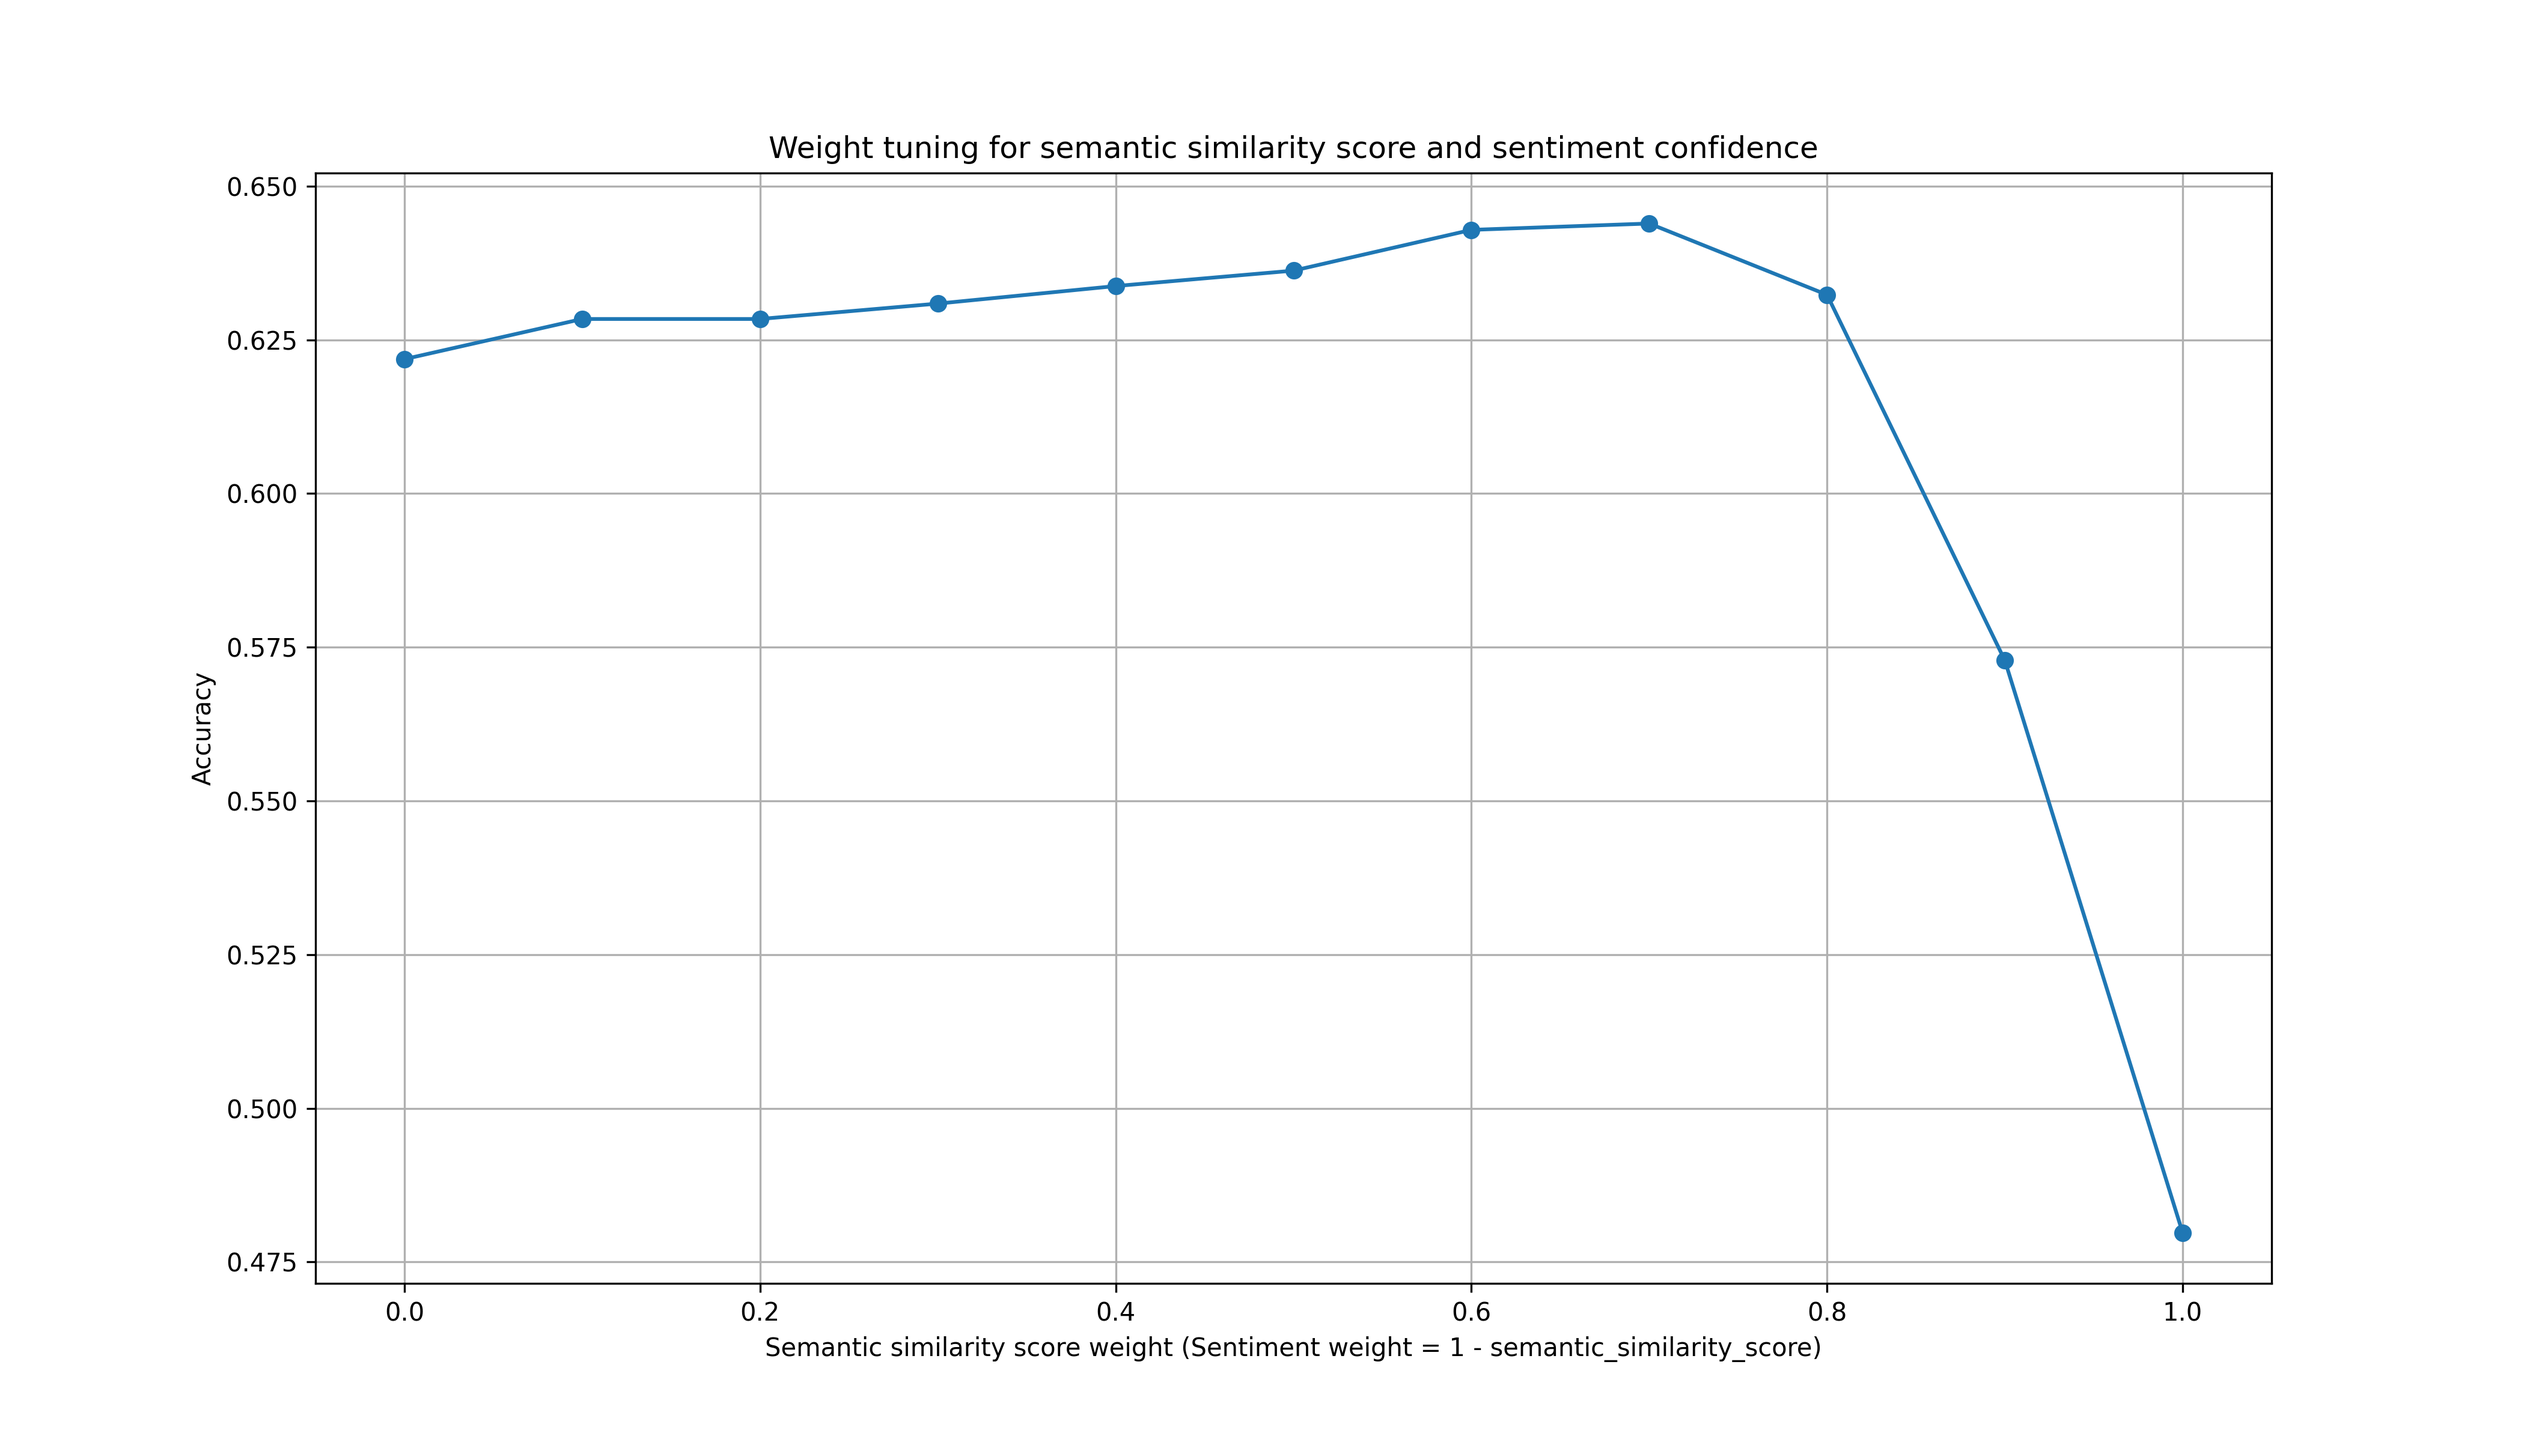
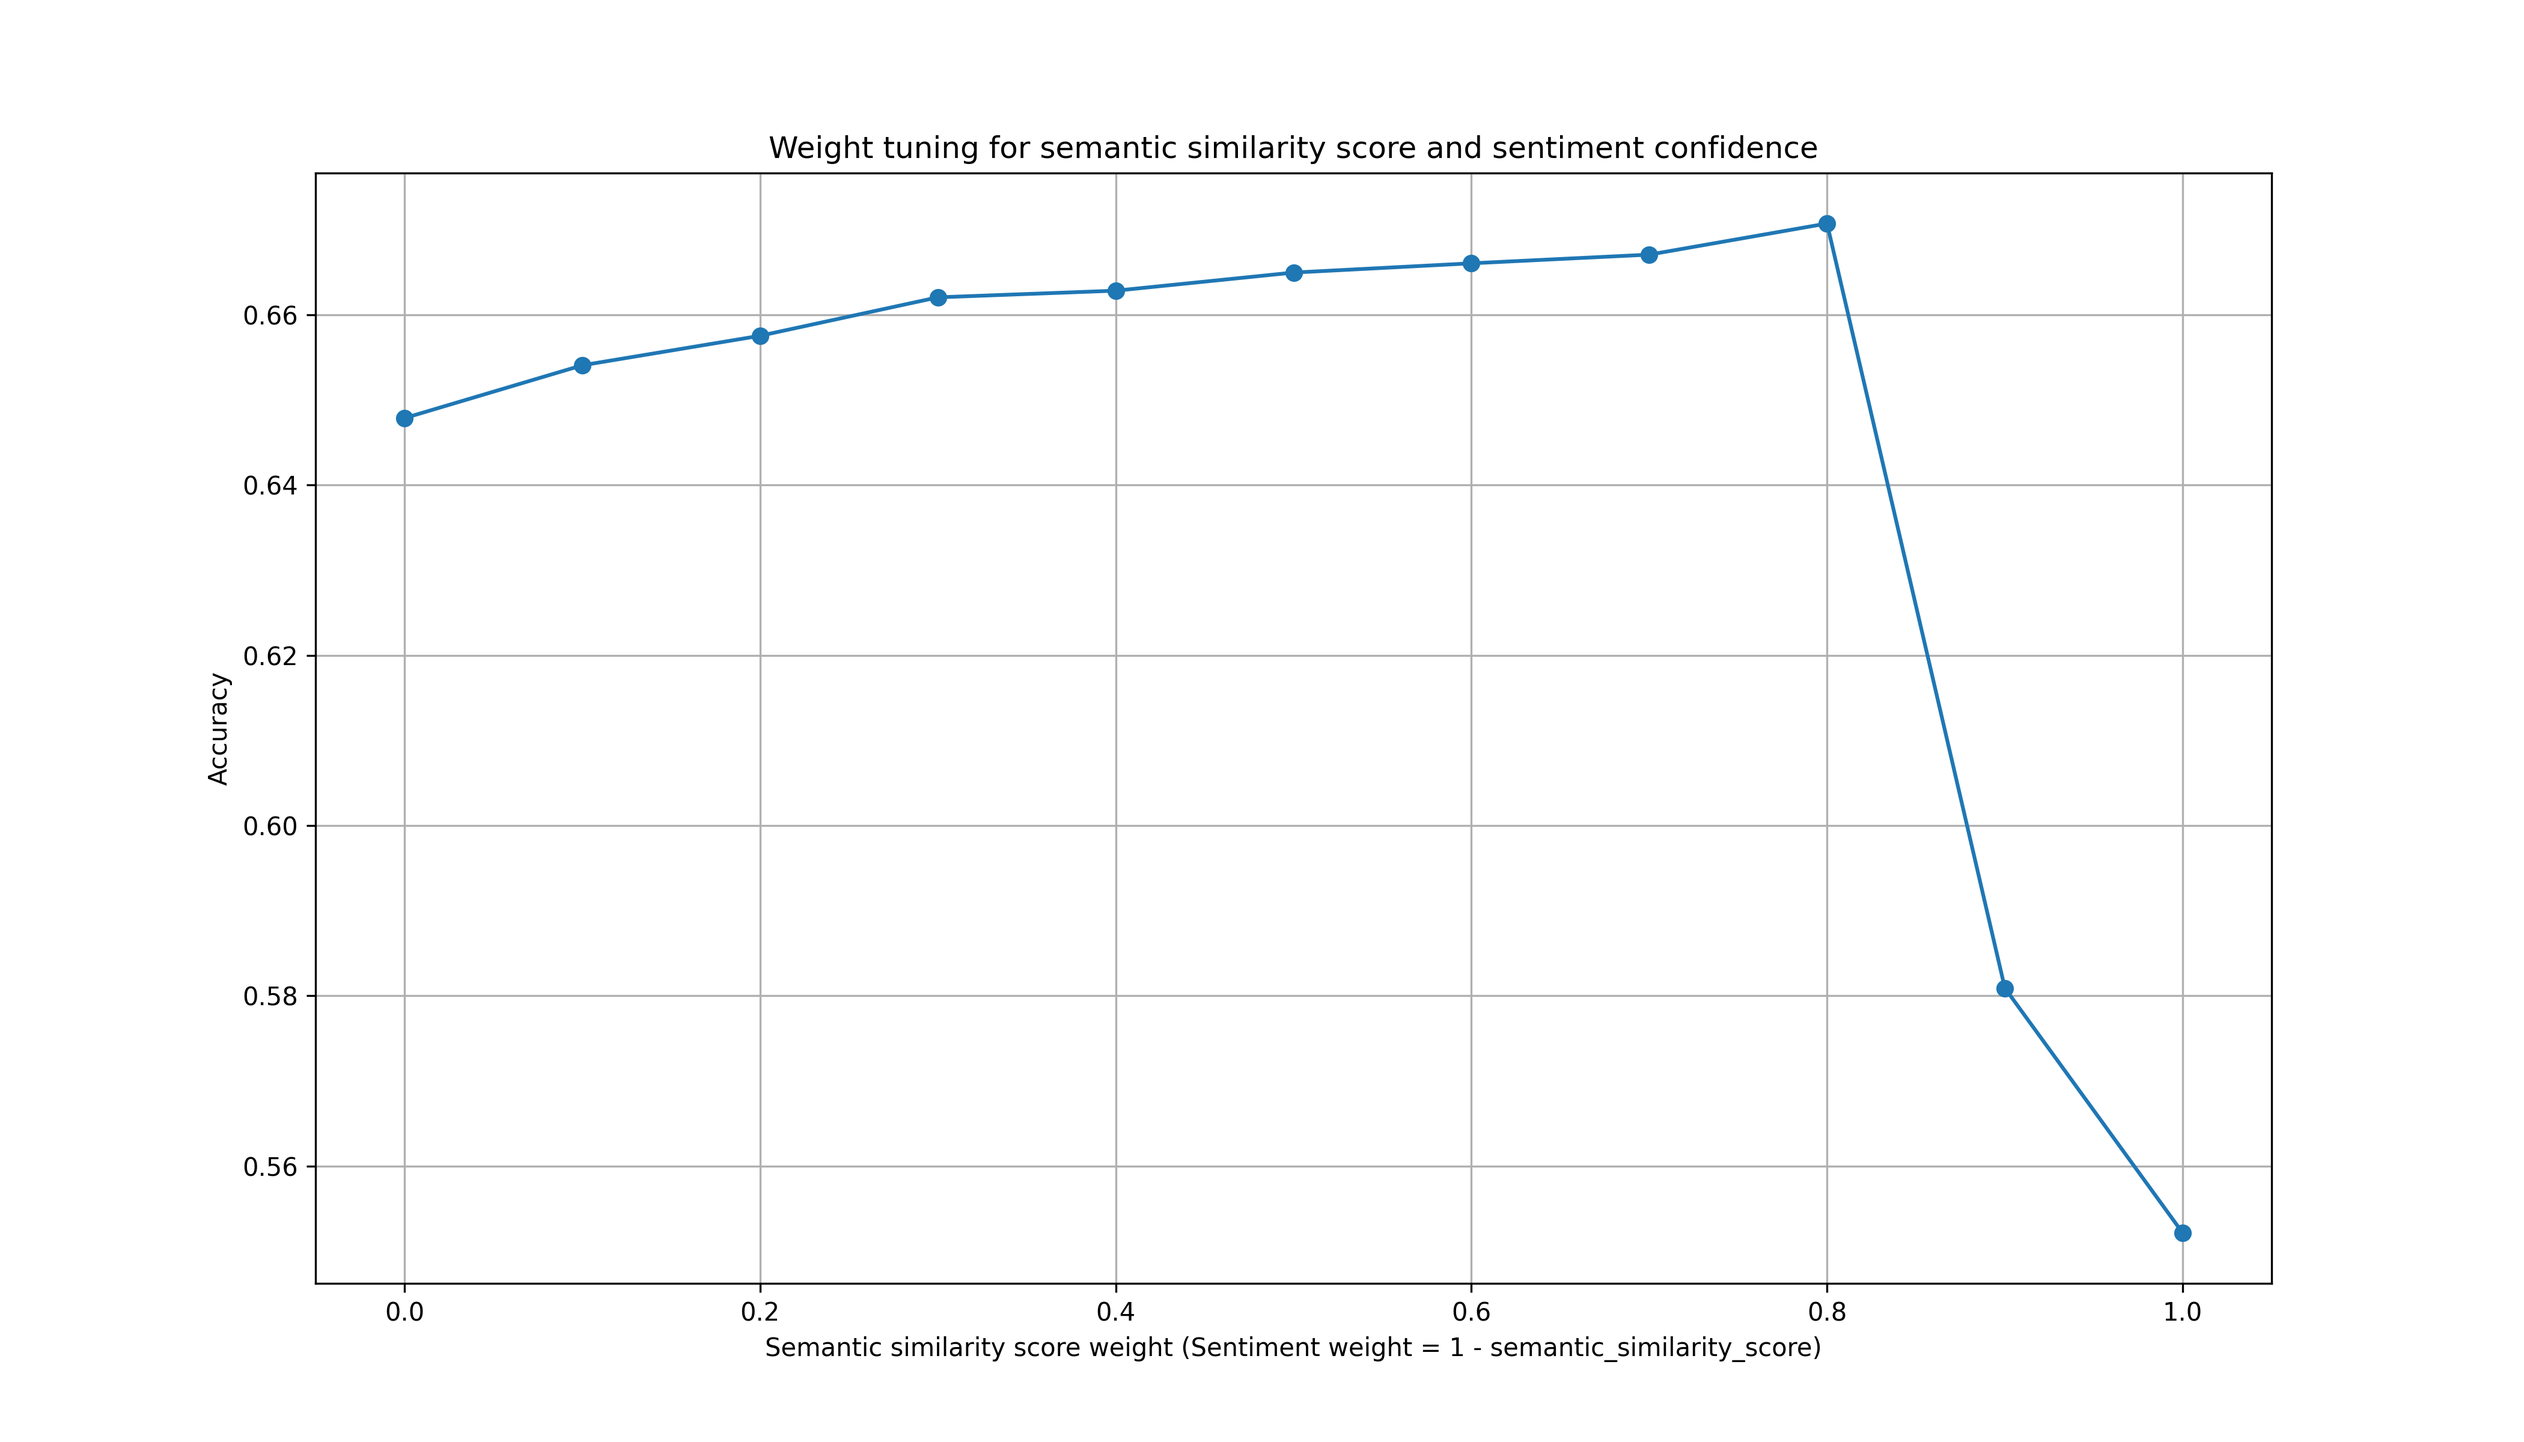
retriever new checks

diff --git a/rag/retriever_w_tune.py b/rag/retriever_w_tune.py
@@ -1,0 +1,100 @@
+import numpy as np
+import os
+import pandas as pd
+from sentiment_analysis.src import SentimentAnalyzer
+import matplotlib.pyplot as plt
+from rag.retriever import INDEX_PATH, METADATA_PATH, Retriever
+
+#########PATHS
+# #local
+# DIR = os.path.dirname(os.path.abspath(__file__)) # local only
+# print("initialising paths")
+# DATA_PATH = os.path.join(DIR, "../ragdata_ca")
+
+# INDEX_PATH = os.path.join(DATA_PATH, "faiss_index.idx")
+# METADATA_PATH = os.path.join(DATA_PATH, "rest_metadata.pkl")
+# OUTPUT_PATH = os.path.join(DIR, "retriever_weight")
+# os.makedirs(OUTPUT_PATH, exist_ok=True)
+
+#ronin
+DIR="/opt/dlami/nvme/smart_dining_assistant"
+DATA_PATH = os.path.join(DIR, "rag","ragdata_pa")
+OUTPUT_PATH = os.path.join(DIR,"rag", "retriever_weight")
+os.makedirs(OUTPUT_PATH, exist_ok=True)
+INDEX_PATH = os.path.join(DATA_PATH, "faiss_index.idx")
+METADATA_PATH = os.path.join(DATA_PATH, "pa_metadata.pkl")
+
+#####
+
+retriever=Retriever()
+analyzer = SentimentAnalyzer()
+
+test_queries=[
+    ("good sushi to go for", "positive"),
+    ("cheap korean food", "neutral"),
+    ("restaurants to not go visit", "negative"),
+    ("places that are worth the hype", "positive"),
+    ("what are the overhyped places", "negative"),
+    ("places to chill at", "neutral")
+]
+
+retrieval_weights = np.linspace(0.0,1.0,11)
+sentiment_weights = 1.0 - retrieval_weights
+w_res = []
+
+print("RETRIEVAL WEIGHT SEARCH")
+
+for wr, ws in zip(retrieval_weights, sentiment_weights):
+    total_correct=0
+    total=0
+
+    print(f"\n---------TESTING retrieval weight {wr}, sentiment weight {ws}")
+
+    for q, expected_s in test_queries:
+        res_list = retriever.retrieve(
+            q,
+            top_k=5,
+            analyzer=analyzer
+            , sem_sim_w=wr
+            , sentiment_w=ws
+        )
+
+        # top_sents = [r.get("sentiment", "unknown") for r in res_list]
+        # correct = sum(sent==expected_s for sent in top_sents)
+        # total_correct +=correct
+        # total += len(top_sents)
+
+        chunk_scores=[]
+        for r in res_list:
+            sent_match = 1.0 if r.get("sentiment")==expected_s else 0.0
+            sem_sim = r.get("retrieval_score", 0.0)
+            chunk_quality = 0.5 * sem_sim + 0.5 * sent_match
+            chunk_scores.append(chunk_quality)
+
+        if chunk_scores:
+            avg_quality = np.mean(chunk_scores)
+            total_correct +=avg_quality
+            total +=1
+
+    acc = total_correct/total
+    print(f"acc for weights ({wr}, {ws}: {acc:.5f})")
+    w_res.append((wr,ws,acc))
+
+    df=pd.DataFrame(w_res, columns=["semantic_similarity_score", "sentiment_weight", "accuracy"])
+    csv_path = os.path.join(OUTPUT_PATH, "retrieval_weights_res2.csv")
+    df.to_csv(csv_path, index=False)
+    print(f"\n results saved to {csv_path}")
+
+    best=max(w_res, key=lambda x:x[2])
+    print(f"\n best weights are: retrieval = {best[0]}, sentiment = {best[1]}, accuracy = {best[2]}")
+
+    plt.figure(figsize=(14,8))
+    plt.plot(df["semantic_similarity_score"], df["accuracy"], marker = "o")
+    plt.title("Weight tuning for semantic similarity score and sentiment confidence")
+    plt.xlabel("Semantic similarity score weight (Sentiment weight = 1 - semantic_similarity_score)")
+    plt.ylabel("Accuracy")
+    plt.grid(True)
+    plt_path = os.path.join(OUTPUT_PATH, "weight_tuning_plot2.png")
+    plt.savefig(plt_path, dpi=300)
+    plt.close()
+    print(f"plot saved to {plt_path}")

diff --git a/rag/retriever.py b/rag/retriever.py
@@ -77,8 +77,8 @@ class Retriever:
                  , query
                  , top_k=5
                  , analyzer=None
-                 , sem_sim_w=0.7
-                 , sentiment_w=0.3
+                 , sem_sim_w=0.8
+                 , sentiment_w=0.2
                  ):
         detected_city = detect_city_query(query, self.city_aliases)
         if detected_city:
@@ -145,7 +145,32 @@ if __name__ == "__main__":
         "good sushi in Philadelphia",
         "restaurants to avoid",
         "cheap korean food",
-        "best restaurant to go to"
+        "best restaurant to go to",
+        #positive food specific
+        "best pizza",
+        "amazing brunch spots",
+        "good vegan restaurants",
+        "affordable fine dining with good reviews",
+        #negative
+        "places to avoid",
+        "restaurants with bad service",
+        "overrated sushi places",
+        "worst buffet in town",
+        # neutral
+        "places to eat alone",
+        "casual dining options",
+        "good lunch spots",
+        "popular family-friendly restaurants",
+        # ambiguous
+        "restaurants that are worth the hype",
+        "restaurants that are not worth visiting",
+        "quiet cafes for working",
+        "expensive but good restaurants",
+        #city detection
+        "good sushi in Philadelphia",
+        "cheap korean food in King of Prussia",
+        "restaurants to avoid in West Chester",
+        "vegan cafes in Blue Bell"
     ]
 
     for q in queries:
